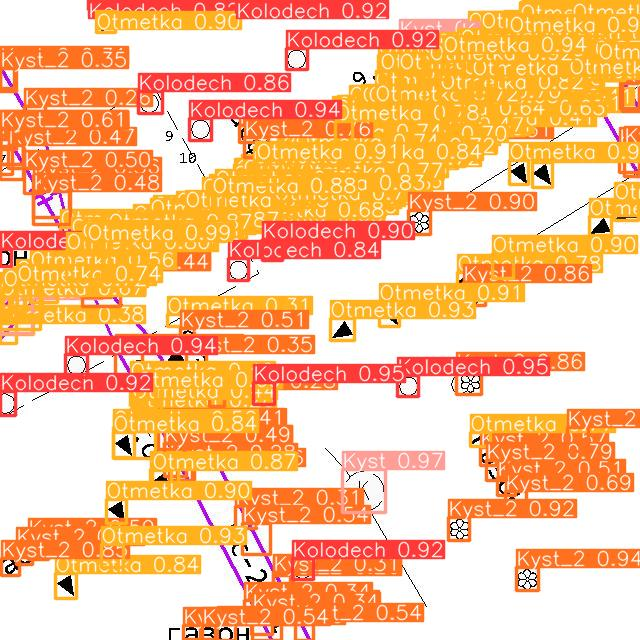
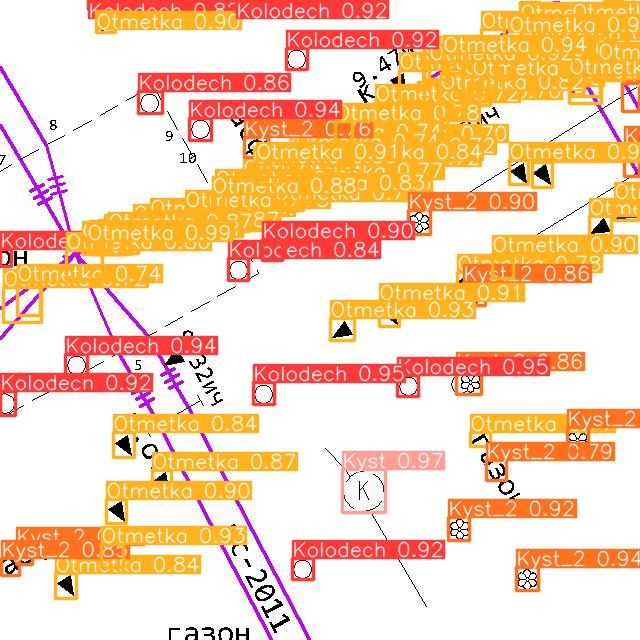
Оптимизация результатов работы модели

diff --git a/predict.py b/predict.py
@@ -6,7 +6,8 @@ import pandas as pd
 # Загрузка модели для пердсказания
 model = YOLO("runs/detect/train3/weights/best.pt")
 
-results = model(['test/test1.jpg', 'test/test2.jpg'])
+# Предсказание. Параметр conf определяет достоверный порог вероятности при котором засчитывается обнаружение
+results = model(['test/test0.jpg', 'test/test1.jpg'], conf=0.7)
 
 i = 0
 
